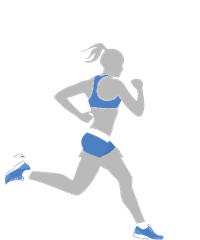
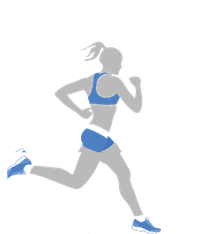
demo: 新增专家建议页与内服外用页（取自说明书第 9/10 页）；跑者帧加留白修掉鞋/大腿被裁

diff --git a/demo/index.html b/demo/index.html
@@ -270,6 +270,45 @@
   .orb-item.is-front{color:rgba(58,48,32,.95);box-shadow:0 6px 18px rgba(90,70,40,.10)}
   @media (prefers-reduced-motion: reduce){ .orb-item{transition:none} }
 
+
+  /* 专家建议 */
+  .expert{background:var(--paper)}
+  .expert-grid{display:grid;grid-template-columns:1.15fr .85fr;gap:clamp(28px,4vw,64px);align-items:start}
+  .expert-list{list-style:none;margin:0;padding:0;display:grid;gap:14px}
+  .expert-list li{position:relative;padding-left:26px;font-size:clamp(.9rem,1.1vw,.98rem);line-height:1.9;color:var(--ink2)}
+  .expert-list li::before{content:"";position:absolute;left:0;top:.72em;width:9px;height:9px;border-radius:50%;
+    border:1.4px solid var(--gold);opacity:.75}
+  .expert-side{padding:clamp(24px,3vw,38px);border:1px solid var(--line);border-radius:14px;
+    background:linear-gradient(180deg,#fff, #FBF8F1);text-align:center}
+  .es-lead{font-size:.86rem;letter-spacing:.14em;color:var(--muted)}
+  .es-words{margin-top:14px;display:flex;flex-direction:column;gap:8px;
+    font-family:var(--serif);font-size:clamp(1.3rem,2.2vw,1.8rem);color:var(--gold);line-height:1.5}
+  .es-cta{margin-top:20px;padding-top:16px;border-top:1px solid var(--line);
+    font-size:.8rem;letter-spacing:.16em;color:var(--ink)}
+
+  /* 内服 / 外用 */
+  .usage{background:var(--paper2);border-top:1px solid var(--line)}
+  .usage-grid{display:grid;grid-template-columns:1fr 1fr;gap:clamp(18px,2.4vw,30px)}
+  .u-card{background:#fff;border:1px solid var(--line);border-radius:14px;padding:clamp(24px,3vw,36px);
+    transition:transform .4s var(--ease),box-shadow .4s var(--ease)}
+  .u-card:hover{transform:translateY(-6px);box-shadow:0 26px 50px rgba(20,24,29,.10)}
+  .u-head{display:flex;align-items:center;gap:12px}
+  .u-ic{width:44px;height:44px;border-radius:50%;background:rgba(168,131,74,.12);display:grid;place-items:center}
+  .u-ic svg{width:23px;height:23px;fill:none;stroke:var(--gold);stroke-width:1.6;stroke-linecap:round;stroke-linejoin:round}
+  .u-head b{display:block;font-family:var(--serif);font-size:1.24rem;color:var(--ink)}
+  .u-head i{display:block;font-style:normal;font-size:.62rem;letter-spacing:.16em;color:var(--muted);text-transform:uppercase}
+  .u-sub{margin-top:16px;font-size:.82rem;letter-spacing:.1em;color:var(--gold)}
+  .u-text{margin-top:12px;font-size:.92rem;line-height:1.95;color:var(--ink2)}
+  .u-tip{margin-top:16px;padding:12px 14px;border-radius:10px;background:rgba(168,131,74,.06);
+    font-size:.8rem;line-height:1.8;color:var(--ink2)}
+  .u-tip b{margin-right:8px;color:var(--gold);font-weight:600}
+  .u-points{list-style:none;margin:18px 0 0;padding:0;display:grid;grid-template-columns:repeat(4,1fr);gap:8px}
+  .u-points li{font-size:.72rem;text-align:center;padding:8px 4px;border-radius:8px;
+    border:1px solid var(--line);color:var(--ink2)}
+  @media (max-width:960px){
+    .expert-grid,.usage-grid{grid-template-columns:1fr;gap:20px}
+    .u-points{grid-template-columns:repeat(2,1fr)}
+  }
   /* STATS */
   .stats{background:var(--paper2);border-top:1px solid var(--line);border-bottom:1px solid var(--line)}
   .stats .row{display:grid;grid-template-columns:repeat(4,1fr);width:min(1180px,92vw);margin:0 auto}
@@ -623,6 +662,66 @@
 
 
 
+<section class="sec expert" id="expert">
+  <div class="wrap">
+    <div class="sec-head">
+      <div class="eyebrow reveal">Expert's Advice · 专家建议</div>
+      <h2 class="reveal d1">哪些人，<br>需要补小分子活性肽？</h2>
+      <p class="reveal d2">30 岁以后，身体合成肽的能力逐年下降。以下七类人，是最该补的一群。</p>
+    </div>
+    <div class="expert-grid">
+      <ul class="expert-list reveal">
+        <li>免疫力低下、长期处于亚健康的人</li>
+        <li>需要预防和改善慢性病的人</li>
+        <li>需要预防骨质疏松、补充钙质的人</li>
+        <li>想增强体力、改善虚弱与易疲劳体质的人</li>
+        <li>想改善睡眠、增强记忆力的人</li>
+        <li>想抗衰除皱、美容养颜、恢复青春活力的人</li>
+        <li>想增强健康生殖能力的人</li>
+      </ul>
+      <aside class="expert-side reveal d1">
+        <p class="es-lead">补生命肽，就是</p>
+        <p class="es-words"><span>补能量</span><span>补青春</span><span>补活力</span></p>
+        <p class="es-cta">立即补肽 · 刻不容缓</p>
+      </aside>
+    </div>
+  </div>
+</section>
+
+<section class="sec usage" id="usage">
+  <div class="wrap">
+    <div class="sec-head">
+      <div class="eyebrow reveal">Usage · 使用方式</div>
+      <h2 class="reveal d1">内服与外用，<br>两条路径</h2>
+      <p class="reveal d2">一瓶粉，两种用法：喝下去修里面，调开来敷外面。</p>
+    </div>
+    <div class="usage-grid">
+      <article class="u-card reveal">
+        <div class="u-head">
+          <span class="u-ic"><svg viewBox="0 0 24 24"><path d="M7 4c0 5 2 8 5 8s5-3 5-8"/><path d="M12 12v9"/><path d="M8 21h8"/></svg></span>
+          <div><b>内服</b><i>Oral</i></div>
+        </div>
+        <p class="u-sub">以内养外 · 科学滋补 · 跨域修复</p>
+        <p class="u-text">直接给细胞补充小分子肽，激活细胞活性、代谢与修复能力。健康的细胞，会让你从内到外都轻一点。</p>
+        <p class="u-tip"><b>用法</b>30 岁以上，早晚空腹各一瓶；体质虚弱者可酌情加量。</p>
+      </article>
+      <article class="u-card reveal d1">
+        <div class="u-head">
+          <span class="u-ic"><svg viewBox="0 0 24 24"><circle cx="12" cy="12" r="8.5"/><path d="M9 10h.01M15 10h.01"/><path d="M9 14.5c1.8 1.4 4.2 1.4 6 0"/></svg></span>
+          <div><b>外用</b><i>External</i></div>
+        </div>
+        <p class="u-sub">日常护理 · 肤质升华 · 深层赋活</p>
+        <p class="u-text">不同分子量的肽对皮肤细胞形成立体支撑，可透皮吸收至真皮层，让皮肤更紧实、更有弹性。</p>
+        <p class="u-tip"><b>用法</b>洁面后取少量，以温水调开，轻拍至吸收；早晚各一次。</p>
+        <ul class="u-points">
+          <li>排毒养颜</li><li>紧致肌肤</li><li>收细毛孔</li><li>补水淡斑</li>
+          <li>淡化细纹</li><li>改善眼袋</li><li>改善颈纹</li><li>提升面部</li>
+        </ul>
+      </article>
+    </div>
+  </div>
+</section>
+
 <section class="maps" id="function">
   <div class="wrap">
     <div class="maps-head">
@@ -662,6 +761,7 @@
     <p class="maps-note">以上为营养学研究中对小分子肽作用方向的描述，个人体验因人而异。</p>
   </div>
 </section>
+
 
 
 <section class="stats">
